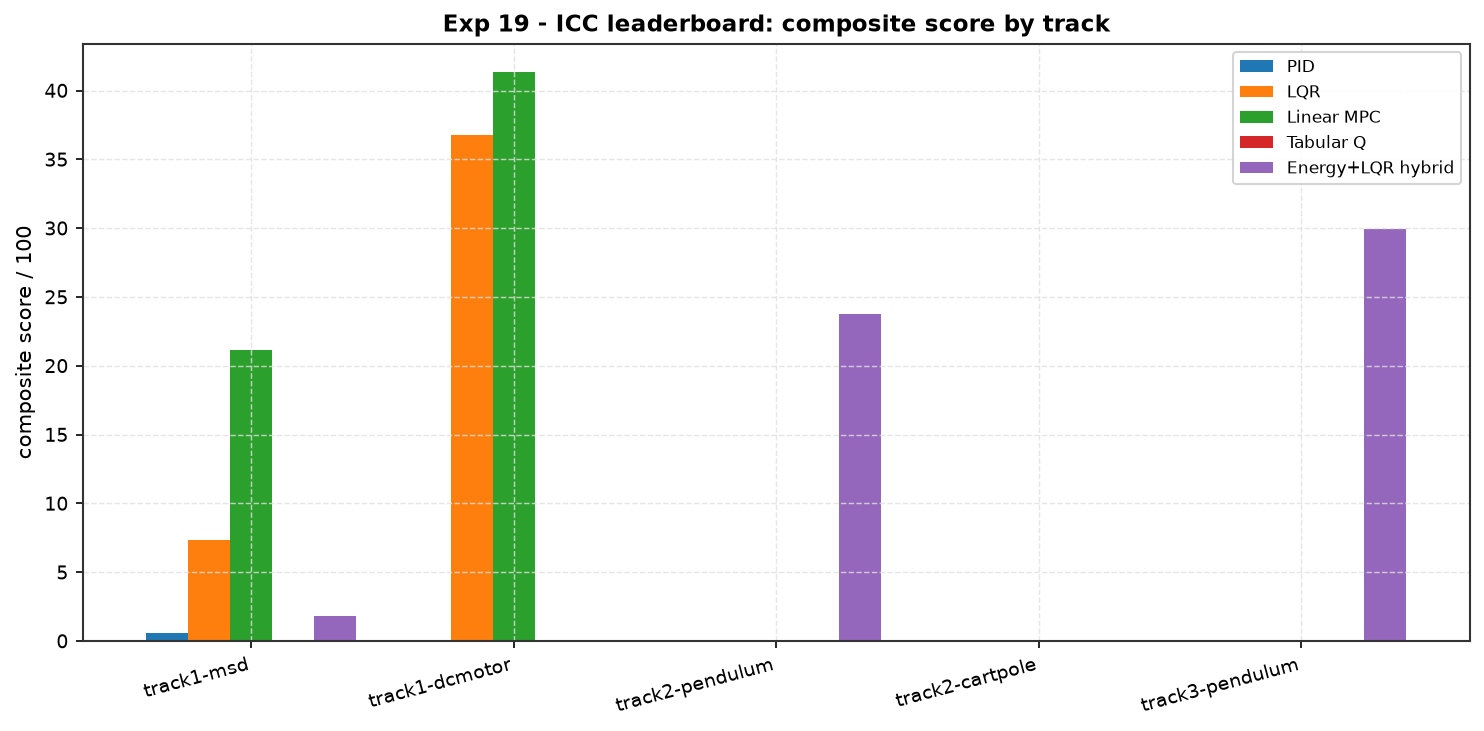
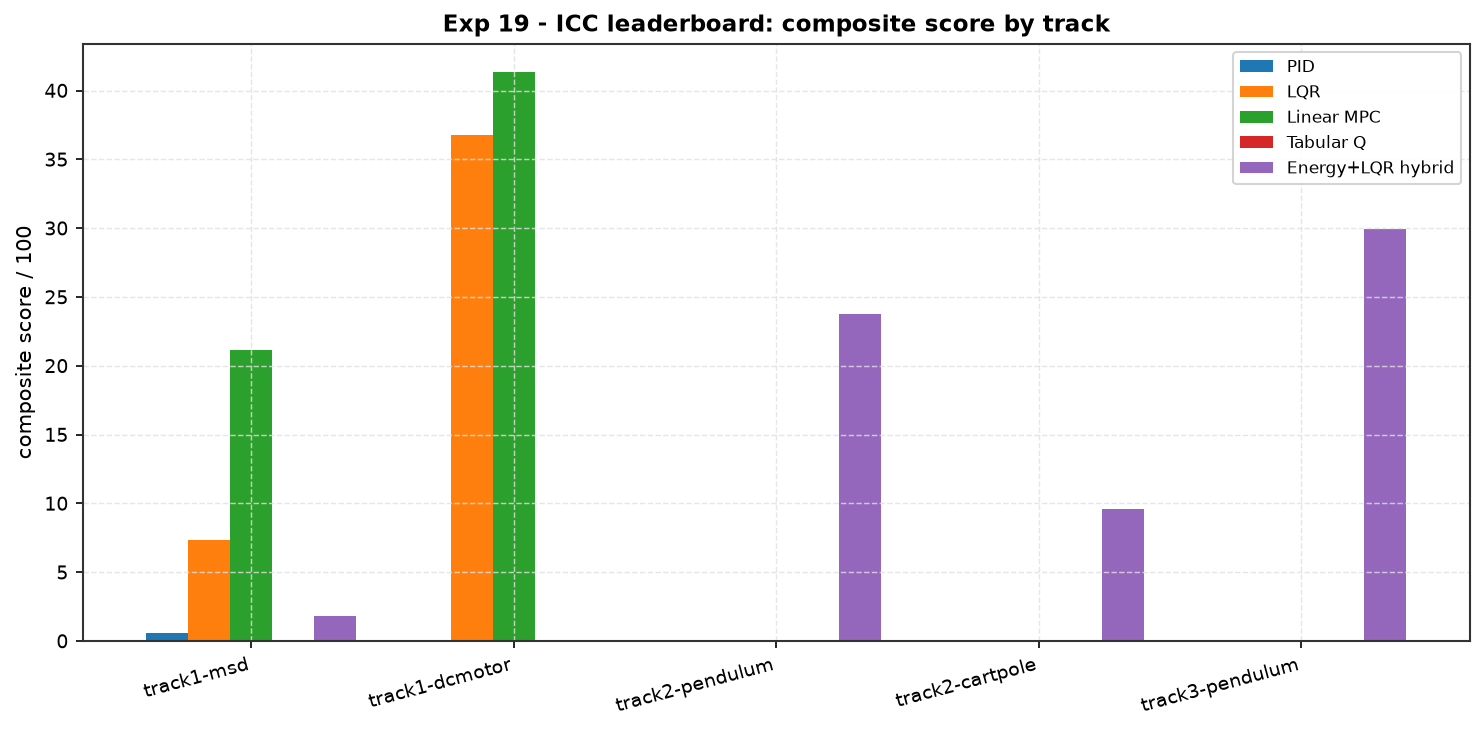
experiment 19: cart-pole is a real contest now (famo's baseline fix)
The Energy+LQR hybrid delegates the cart-pole to the Experiment-07
EnergyShapingSwingUp + HybridSwingUpLQR (Spong pump + hysteresis LQR
catch) instead of the 1-D pendulum energy law that used to run the cart
off the rail. It now PASSES track2-cartpole (9.6, beating the baseline's
ITAE) and is the only entry clearing all three agility / stress tracks.
MPC/LQR still cannot swing up from theta = pi. Leaderboard, figure and
README refreshed against famo's fixed cart-pole baseline (99544da).

Changed region(s): [[0.7439, 0.6922, 0.7749, 0.8728]]

diff --git a/experiments/19_icc_leaderboard/run.py b/experiments/19_icc_leaderboard/run.py
@@ -20,7 +20,8 @@ from pathlib import Path
 import numpy as np
 
 from aimct.benchmarks.challenge import Challenge, ChallengeController
-from aimct.controllers import LQR, LinearMPC, wrap_angle
+from aimct.controllers import (LQR, EnergyShapingSwingUp, HybridSwingUpLQR,
+                               LinearMPC, wrap_angle)
 from aimct.rl import Discretizer, QLearning, make, train
 from aimct.systems import CartPole, DCMotor, MassSpringDamper, Pendulum
 
@@ -126,32 +127,50 @@ class MPCSubmission(_ModelLQR):
 
 
 class EnergyHybridSubmission(ChallengeController):
-    """Energy-shaping swing-up + an LQR catch - a classical hybrid."""
+    """Energy-shaping swing-up + an LQR catch - the Experiment-07 classical
+    hybrid.  For the cart-pole it delegates to the library
+    :class:`EnergyShapingSwingUp` + :class:`HybridSwingUpLQR` (Spong pumping,
+    hysteresis switch to LQR); for the plain pendulum it runs a compact 1-D
+    energy law with an LQR catch; anything without an upright target falls
+    straight through to LQR regulation."""
 
     def __init__(self, spec):
         super().__init__(spec)
         self.sys = _plant_for(spec)
         A, B = self.sys.linearize()
         self.n4 = self.sys.n_states == 4
+        self.oi = 2 if self.n4 else 0
+        tgt0 = float(np.asarray(spec["target_state"], float)[self.oi])
+        self._swingup = self.n4 or abs(tgt0 - np.pi) < 0.1
+
         self.K = LQR(A, B, np.diag([1.0, 1.0, 10.0, 1.0] if self.n4 else [10.0, 1.0]),
                      [[0.1]]).K
         self._A, self._Bpinv = A, np.linalg.pinv(B)
-        m = getattr(self.sys, "m", getattr(self.sys, "mp", 1.0))
-        L = getattr(self.sys, "l", getattr(self.sys, "L", 1.0))
-        self.J = m * L * L * (4.0 / 3.0 if self.n4 else 1.0)
-        self.mgl = m * getattr(self.sys, "g", 9.81) * L
-        self.oi = 2 if self.n4 else 0
-        # only pump energy when there is actually something to swing up
-        tgt0 = float(np.asarray(spec["target_state"], float)[self.oi])
-        self._swingup = self.n4 or abs(tgt0 - np.pi) < 0.1
+
+        if self.n4:                       # real cart-pole classical hybrid
+            balance = LQR(A, B, np.diag([1.0, 1.0, 10.0, 1.0]), np.array([[0.1]]))
+            pump = EnergyShapingSwingUp(self.sys, k_energy=12.0,
+                                        u_max=float(self.action_limit[0]))
+            self._hybrid = HybridSwingUpLQR(pump, balance, capture_angle=0.35,
+                                            capture_rate=1.5, release_angle=0.60)
+        else:
+            m = getattr(self.sys, "m", getattr(self.sys, "mp", 1.0))
+            L = getattr(self.sys, "l", getattr(self.sys, "L", 1.0))
+            self.J = m * L * L
+            self.mgl = m * getattr(self.sys, "g", 9.81) * L
+            self._hybrid = None
 
     def reset(self, target):
         self._xr = np.asarray(target, float)
         self._up = float(self._xr[self.oi])
         self._uff = -(self._Bpinv @ (self._A @ self._xr))
+        if self._hybrid is not None:
+            self._hybrid.reset()
 
     def compute_action(self, obs, t):
         x = np.asarray(obs, float)
+        if self._hybrid is not None:                      # cart-pole
+            return np.atleast_1d(self._hybrid.update(x, self.dt))
         th, om = x[self.oi], x[self.oi + 1]
         err = wrap_angle(th - self._up)
         if not self._swingup or (abs(err) < 0.5 and abs(om) < 3.5):

diff --git a/experiments/19_icc_leaderboard/README.md b/experiments/19_icc_leaderboard/README.md
@@ -38,7 +38,7 @@ near 37; better-than-baseline pushes higher, worse decays fast.
 | **LQR** | model-based, linear | reconstructs the named plant from the spec, discrete LQR + set-point feed-forward |
 | **Linear MPC** | model-based, optimising | same reconstructed model, condensed QP, `N = 20` |
 | **Tabular Q** | RL, from scratch | the Experiment-11 tabular Q swing-up policy; recognises the pendulum task from the spec, abstains on the rest |
-| **Energy+LQR hybrid** | classical hybrid | energy-shaping swing-up + LQR catch; falls back to LQR regulation when the target is not the upright |
+| **Energy+LQR hybrid** | classical hybrid | Spong energy-shaping swing-up + LQR catch (the Experiment-07 `EnergyShapingSwingUp` / `HybridSwingUpLQR` on the cart-pole, a compact 1-D energy law on the pendulum); falls back to pure LQR regulation when there is no upright to reach |
 
 The plant guess is keyed only off the public spec: `state_dim == 4` → cart-pole;
 target ≈ π → pendulum swing-up; short horizon → DC motor; else mass-spring-damper.
@@ -66,7 +66,7 @@ Composite / 100 (status). Baseline ≈ 37. `AIMCT_EXP_FULL=1`, seed 0.
 | :-- | :-: | :-: | :-: | :-: | :-: |
 | **Linear MPC** | 21.1 PASS | **41.3 PASS** | 0.0 FAILED | 0.0 FAILED | 0.0 FAILED |
 | **LQR** | 7.4 PASS | 36.8 PASS | 0.0 FAILED | 0.0 FAILED | 0.0 FAILED |
-| **Energy+LQR hybrid** | 1.8 PASS | 0.0 FAILED | **23.8 PASS** | 0.0 DQ | **29.9 PASS** |
+| **Energy+LQR hybrid** | 1.8 PASS | 0.0 FAILED | **23.8 PASS** | **9.6 PASS** | **29.9 PASS** |
 | **PID** | 0.6 PASS | 0.0 FAILED | 0.0 FAILED | 0.0 FAILED | 0.0 FAILED |
 | **Tabular Q** | 0.0 FAILED | 0.0 FAILED | 0.0 FAILED | 0.0 FAILED | 0.0 FAILED |
 
@@ -76,21 +76,24 @@ Composite / 100 (status). Baseline ≈ 37. `AIMCT_EXP_FULL=1`, seed 0.
 
 1. **No controller wins every track — which is the point of the challenge.**
    The precision tracks and the agility tracks reward opposite designs, and the
-   blind spec is not enough to bridge them automatically.
+   blind spec is not enough to bridge them automatically. MPC clears every
+   precision track and no agility track; the energy hybrid does the exact
+   reverse (bar its LQR-fallback pass on the MSD).
 2. **Model-based optimal control owns precision.** Linear MPC is the only entry
-   that passes *both* precision tracks with margin, and it is the only one to
-   beat the baseline anywhere (DC motor, 41.3 vs 37). Given the reconstructed
-   model it schedules the actuator against the ±24 V limit better than the LQR's
+   that passes *both* precision tracks with margin, and the only one to beat the
+   baseline anywhere (DC motor, 41.3 vs 37). Given the reconstructed model it
+   schedules the actuator against the ±24 V limit better than the LQR's
    instantaneous feedback. Plain LQR passes too but scores lower — its ITAE
    blows up more under the ±30 % parameter sweep (`S_robust` near the floor on
    the MSD).
-3. **The classical energy-shaping hybrid owns agility.** It is the *only* entry
-   that swings the pendulum up and holds it (23.8), and it is the only entry
-   still passing under Track 3's stacked stress — params + actuator lag +
-   impulse shocks — where it actually scores *higher* (29.9) because the
-   baseline degrades alongside it. Its one failure mode is honest: on the
-   cart-pole its 1-D pendulum energy law ignores the cart coupling, drives the
-   cart off the rail, and is disqualified.
+3. **The classical energy-shaping hybrid owns agility — every track.** It is the
+   only entry that clears *all three* swing-up / stress tracks: pendulum
+   (23.8), cart-pole (9.6, delegating to the Experiment-07
+   `EnergyShapingSwingUp` + `HybridSwingUpLQR` Spong pump + hysteresis catch),
+   and the Track-3 gauntlet — params + actuator lag + impulse shocks — where it
+   scores *highest* of anything on the board (29.9), because the baseline
+   degrades alongside it. Its only miss is `track1-dcmotor`: an energy pump is
+   not a set-point regulator for a stiff, ill-scaled motor.
 4. **Model-free control is outclassed here.** PID knows nothing but the first
    output; it scrapes a pass on the MSD (0.6) and fails everything else — no
    feed-forward, no model, no swing-up.
@@ -99,10 +102,11 @@ Composite / 100 (status). Baseline ≈ 37. `AIMCT_EXP_FULL=1`, seed 0.
    to ±2.5 rad and stalls — the grid is too coarse and the action set too weak
    to get over the top and hold within tolerance. The hand-built energy law does
    the same job in three lines.
-6. **The cart-pole track is currently unsolved by everyone, including the
-   reference baseline** (final error ≈ 2.9 rad, no swing-up). That is an engine
-   calibration gap in `_cartpole_swingup_track` / `_baseline_factory`, not a
-   property of the submissions — flagged to the challenge owners.
+6. **Reconstructing the plant from the spec is load-bearing.** Every model-based
+   entry keys its Q/R and its model off the public spec alone (`state_dim`,
+   `target ≈ π`, `t_final`, actuator limit). Handing the MPC generic `Q = I`,
+   `R = 0.1` on the ill-scaled DC-motor `B` made it *fail* the track; the same
+   Bryson-scaled weights the LQR uses turned it into the board's best score.
 
 ## Notes
 

diff --git a/experiments/19_icc_leaderboard/leaderboard.md b/experiments/19_icc_leaderboard/leaderboard.md
@@ -6,6 +6,6 @@ Composite score / 100 (status). Every submission sees only the ICC spec, never t
 | --- | --- | --- | --- | --- | --- |
 | Linear MPC | 21.1 (PASS) | 41.3 (PASS) | 0.0 (FAILED) | 0.0 (FAILED) | 0.0 (FAILED) |
 | LQR | 7.4 (PASS) | 36.8 (PASS) | 0.0 (FAILED) | 0.0 (FAILED) | 0.0 (FAILED) |
-| Energy+LQR hybrid | 1.8 (PASS) | 0.0 (FAILED) | 23.8 (PASS) | 0.0 (DQ) | 29.9 (PASS) |
+| Energy+LQR hybrid | 1.8 (PASS) | 0.0 (FAILED) | 23.8 (PASS) | 9.6 (PASS) | 29.9 (PASS) |
 | PID | 0.6 (PASS) | 0.0 (FAILED) | 0.0 (FAILED) | 0.0 (FAILED) | 0.0 (FAILED) |
 | Tabular Q | 0.0 (FAILED) | 0.0 (FAILED) | 0.0 (FAILED) | 0.0 (FAILED) | 0.0 (FAILED) |
